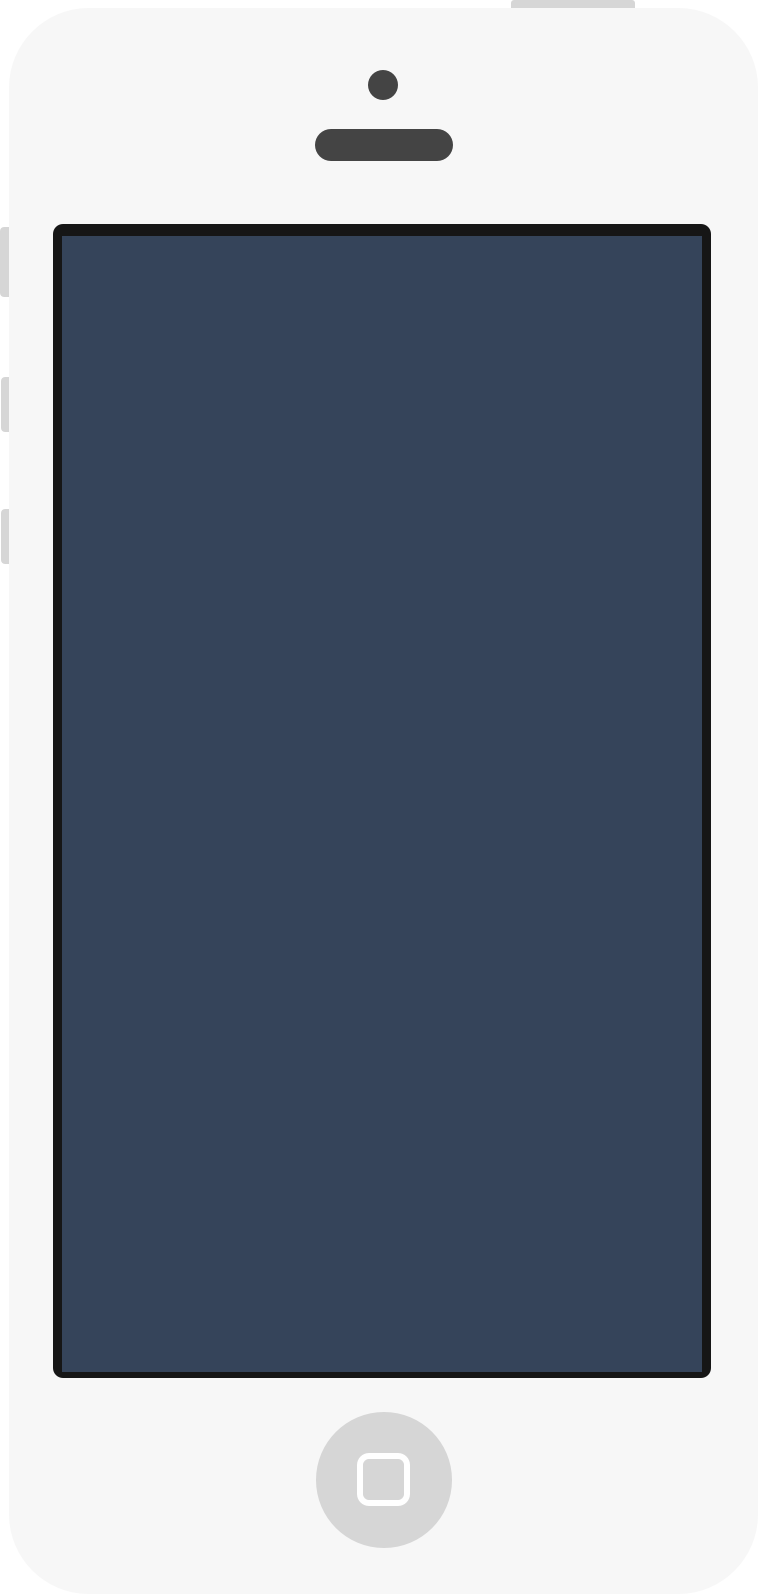
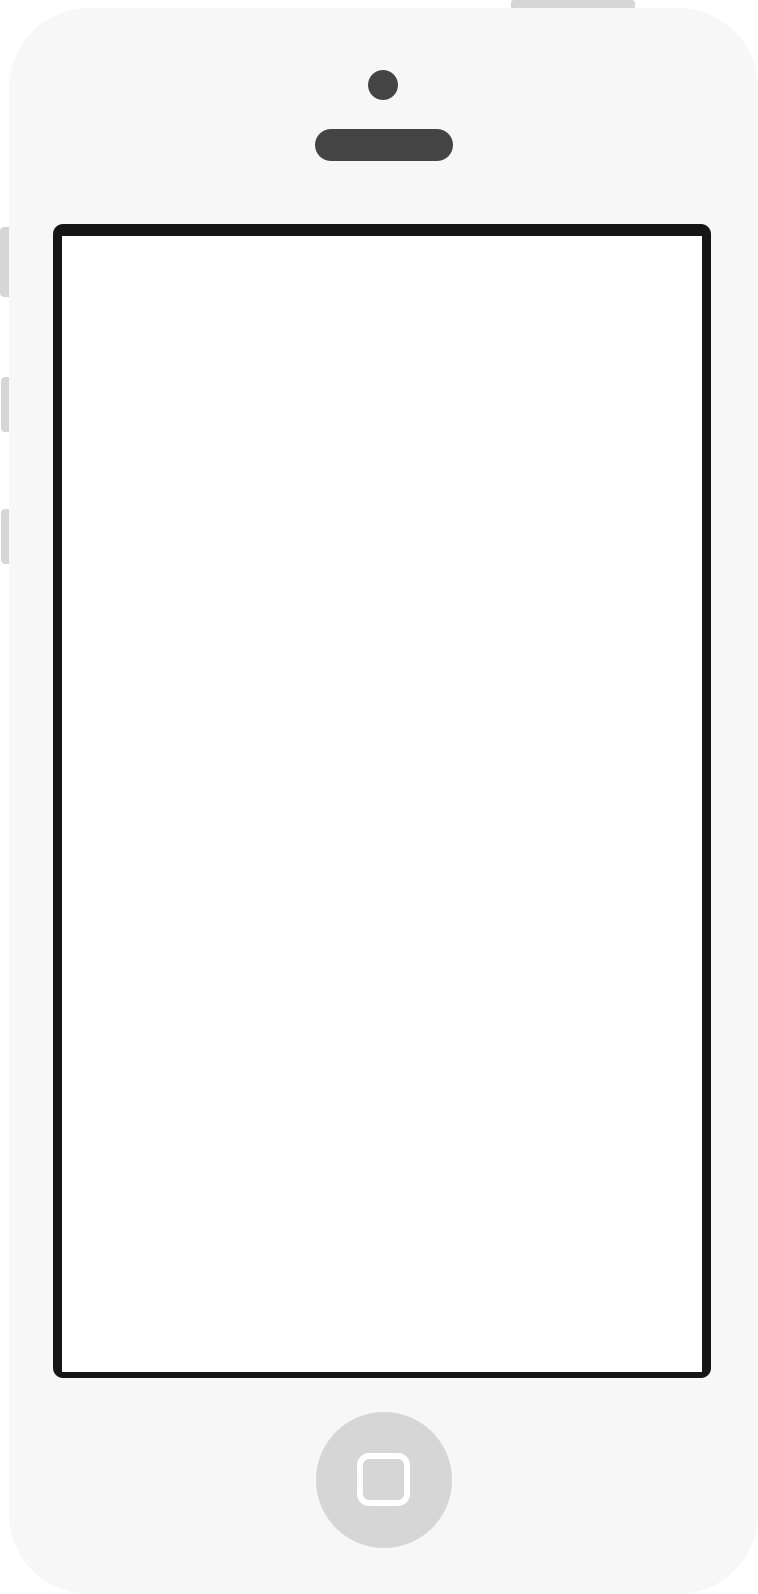
replaced background-images

diff --git a/CHANGELOG.md b/CHANGELOG.md
@@ -1,6 +1,9 @@
 CHANGELOG for Sulu
 ==================
 
+* dev-develop
+    * ENHANCEMENT #2701 [PreviewBundle]       Replaced preview background-images with white background
+
 * 1.3.0-RC2 (2016-07-28)
     * BUGFIX      #2692 [PreviewBundle]       Fixed the generation of log and cache directory when context is part of path
     * BUGFIX      #2697 [ContentBundle]       Deindex page after unpublishing
